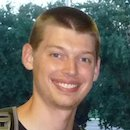
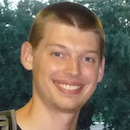
New and higher-quality images and such

diff --git a/source/index.html b/source/index.html
@@ -4,7 +4,7 @@ comments: false
 sharing: false
 footer: true
 ---
-<img src="/images/me/1.jpg" alt="TJ VanToll" id="home_me">
+<img src="/images/me/1.jpg" alt="TJ VanToll" id="home-me">
 <p>I'm TJ VanToll. I'm a developer advocate for <a href="http://telerik.com">Telerik</a>, a <a href="http://jqueryui.com/about/">jQuery team member</a>, and the author of <a href="http://tjvantoll.com/jquery-ui-in-action.html">jQuery UI in Action</a>. I have over a decade of web development experience—specializing in performance and the mobile web.</p>
 
 <p>I <a href="/speaking">speak</a> about my research and experiences at conferences around the world, and I've written for publications such as <a href="http://www.smashingmagazine.com/2014/05/21/mobile-accessibility-why-care-what-can-you-do/">Smashing Magazine</a>, <a href="http://www.html5rocks.com/en/tutorials/forms/constraintvalidation/">HTML5 Rocks</a>, <a href="http://msdn.microsoft.com/en-us/magazine/dn133614.aspx">MSDN Magazine</a>, and <a href="http://modernweb.com/2014/03/10/is-jquery-too-big-for-mobile/">ModernWeb</a>.</p>

diff --git a/sass/custom/_styles.scss b/sass/custom/_styles.scss
@@ -115,8 +115,9 @@ body .one {
 		padding-bottom: 1em;
 	}
 	img {
-		height: 140px;
-		width: 115px;
+		height: 150px;
+		width: 120px;
+		border: none;
 	}
 	a { white-space: normal; }
 	> div { padding: 0 0.5em; }
@@ -132,9 +133,10 @@ aside.sidebar:hover a:hover {
 /******************** About Page *********************/
 /*****************************************************/
 
-#home_me {
+#home-me {
 	float: right;
 	margin: 10px;
+	border: none;
 }
 
 .home-heading {
